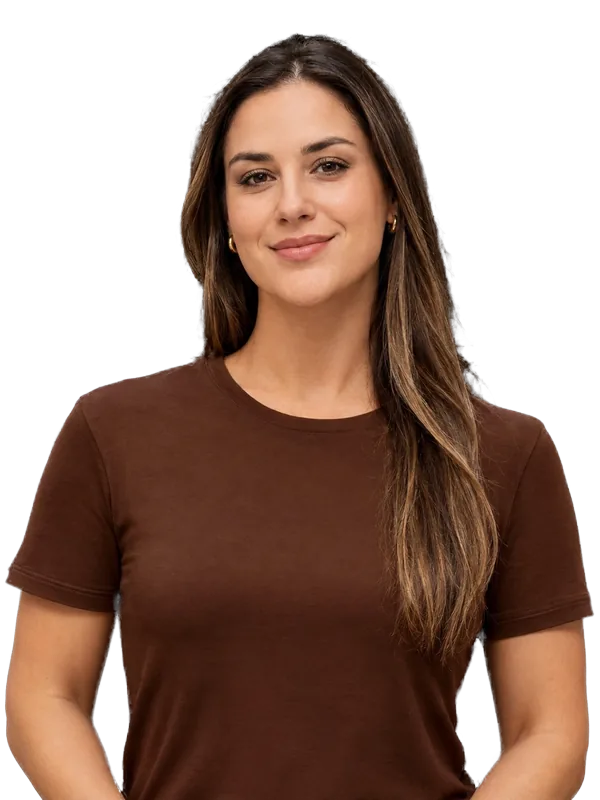
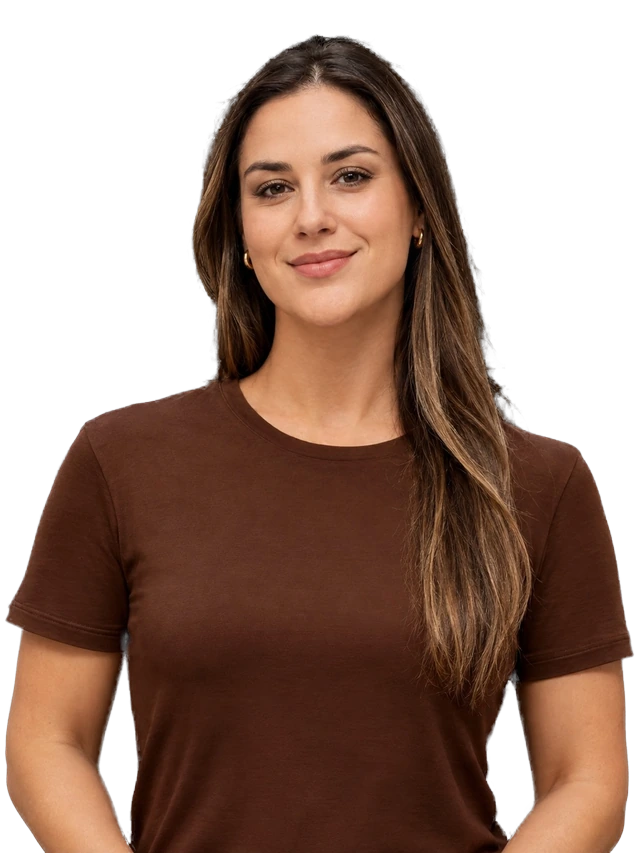
Corrige a perda de qualidade que eu mesmo causei, e o sangramento na borda
QUALIDADE
No commit anterior eu baixei de 900px/q92 pra 600px/q82 no mesmo passo em que
deveria estar melhorando o cabelo. Foi otimizacao demais e a queda era real.

Medi o tamanho de exibicao em vez de chutar: o cartao maior tem 271px de CSS, o
que pede 541px numa tela 2x. Agora sao 640px com qualidade 92 — folga sobre o
necessario, e ainda 292 KB no total contra os 424 KB que 800px custariam.

SANGRAMENTO
Achado no caminho, e provavelmente o que mantinha o cabelo sujo: num RGBA comum
os pixels transparentes ainda guardam a COR original — aqui, preto. Ao reduzir a
imagem, o redimensionamento mistura vizinhos e esse preto entra nos pixels de
borda, sujando cada fio.

A reducao agora multiplica o RGB pelo alfa antes e desfaz depois, entao o que
esta invisivel nao contamina o que esta visivel.

diff --git a/quiz/v2/index.html b/quiz/v2/index.html
@@ -56,7 +56,7 @@
   <link rel="preconnect" href="https://fonts.googleapis.com"/>
   <link rel="preconnect" href="https://fonts.gstatic.com" crossorigin/>
   <link rel="preload" as="style" href="https://fonts.googleapis.com/css2?family=Inter:wght@400;500;600;700;800;900&display=swap"/>
-  <link rel="stylesheet" href="quiz-warm.css?v=186"/>
+  <link rel="stylesheet" href="quiz-warm.css?v=187"/>
 </head>
 <body>
 
@@ -94,19 +94,19 @@
          quebraria a comparação com as outras variantes. -->
     <div class="age-fotos" id="ageFotos" hidden>
       <button class="age-row age-foto" data-val="18-25" data-next="s2">
-        <img src="Images/idade-18-25.webp" alt="" width="600" height="800" decoding="async" loading="eager"/>
+        <img src="Images/idade-18-25.webp" alt="" width="640" height="853" decoding="async" loading="eager"/>
         <span class="age-foto__bar"><span>Idade: 18-25</span><span class="age-foto__chev"><svg viewBox="0 0 24 24" fill="none" stroke="currentColor" stroke-width="2.4" stroke-linecap="round" stroke-linejoin="round" aria-hidden="true"><path d="M9 5l7 7-7 7"/></svg></span></span>
       </button>
       <button class="age-row age-foto" data-val="26-35" data-next="s2">
-        <img src="Images/idade-26-35.webp" alt="" width="600" height="800" decoding="async" loading="eager"/>
+        <img src="Images/idade-26-35.webp" alt="" width="640" height="853" decoding="async" loading="eager"/>
         <span class="age-foto__bar"><span>Idade: 26-35</span><span class="age-foto__chev"><svg viewBox="0 0 24 24" fill="none" stroke="currentColor" stroke-width="2.4" stroke-linecap="round" stroke-linejoin="round" aria-hidden="true"><path d="M9 5l7 7-7 7"/></svg></span></span>
       </button>
       <button class="age-row age-foto" data-val="36-45" data-next="s2">
-        <img src="Images/idade-36-45.webp" alt="" width="600" height="800" decoding="async" loading="eager"/>
+        <img src="Images/idade-36-45.webp" alt="" width="640" height="853" decoding="async" loading="eager"/>
         <span class="age-foto__bar"><span>Idade: 36-45</span><span class="age-foto__chev"><svg viewBox="0 0 24 24" fill="none" stroke="currentColor" stroke-width="2.4" stroke-linecap="round" stroke-linejoin="round" aria-hidden="true"><path d="M9 5l7 7-7 7"/></svg></span></span>
       </button>
       <button class="age-row age-foto" data-val="46+" data-next="s2">
-        <img src="Images/idade-46-mais.webp" alt="" width="600" height="800" decoding="async" loading="eager"/>
+        <img src="Images/idade-46-mais.webp" alt="" width="640" height="853" decoding="async" loading="eager"/>
         <span class="age-foto__bar"><span>Idade: 46+</span><span class="age-foto__chev"><svg viewBox="0 0 24 24" fill="none" stroke="currentColor" stroke-width="2.4" stroke-linecap="round" stroke-linejoin="round" aria-hidden="true"><path d="M9 5l7 7-7 7"/></svg></span></span>
       </button>
     </div>
